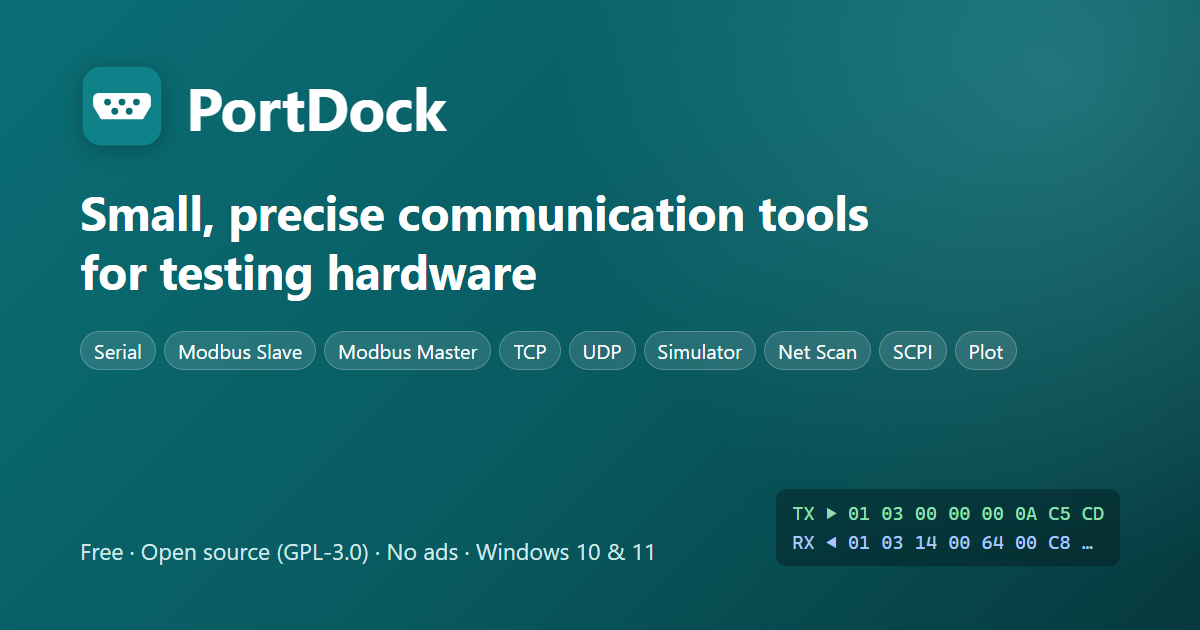
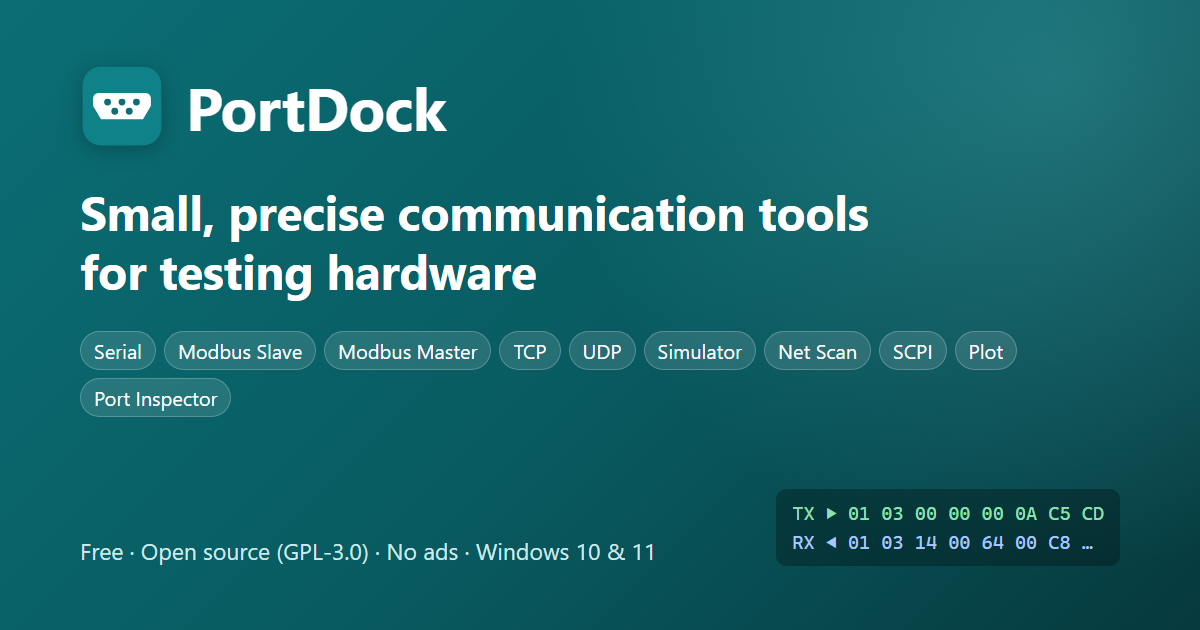
사이트: Port Inspector 도구 페이지·도구 수 문구 10개
- tools.ts 에 Port Inspector 항목(소개·기능·빠른 시작·비슷한 도구·도움말), 도구 id 에 port-inspector
- 이어지는 웹 도구(통신 시간·RS-485·UART 보율), 가이드 5편(USB 시리얼 지연·RS-485 배선·바이어스·종단·Modbus 응답 없음·DB9 널 모뎀)에 도구 연결
- 첫 화면·내려받기 설명과 사이트 소개·llms.txt 에 COM 포트 점검, 9종 → 10종
- 공유 미리보기 그림(og.png·og-en.png)을 og/make.mjs 로 다시 만듦, SEO.md 검색어 줄

Changed region(s): [[0.0617, 0.573, 0.2158, 0.6635]]

diff --git a/site/src/data/tools.ts b/site/src/data/tools.ts
@@ -10,6 +10,7 @@ import { help as netscanHelp } from "../../../apps/netscan/src/help";
 import { help as modbusMasterHelp } from "../../../apps/modbus-master/src/help";
 import { help as scpiHelp } from "../../../apps/scpi/src/help";
 import { help as plotHelp } from "../../../apps/plot/src/help";
+import { help as portInspectorHelp } from "../../../apps/port-inspector/src/help";
 
 export type Lang = "ko" | "en";
 export type L = Record<Lang, string>;
@@ -22,7 +23,7 @@ export const latest = (file: string) => `${RELEASES}/latest/download/${file}`;
 export const RELEASED = false;
 
 export interface Tool {
-  id: "serial" | "modbus-slave" | "tcp" | "udp" | "simulator" | "netscan" | "modbus-master" | "scpi" | "plot";
+  id: "serial" | "modbus-slave" | "tcp" | "udp" | "simulator" | "netscan" | "modbus-master" | "scpi" | "plot" | "port-inspector";
   name: string;
   /** 파일 이름에 쓰는 이름 — PortDock-Serial */
   file: string;
@@ -378,6 +379,46 @@ export const TOOLS: Tool[] = [
       en: "Similar tools include the Arduino IDE Serial Plotter and the open-source SerialPlot. PortDock Plot also takes TCP and UDP input, binary frames, and records CSV while receiving.",
     },
     help: plotHelp,
+  },
+  {
+    id: "port-inspector",
+    name: "PortDock Port Inspector",
+    file: "PortDock-Port-Inspector",
+    tagline: { ko: "COM 포트 드라이버·문제 코드·절전 읽기와 연결 시험", en: "Read-only COM port inspector with a loopback test" },
+    seo: {
+      title: { ko: "PortDock Port Inspector — 무료 COM 포트 점검 (USB 시리얼)", en: "PortDock Port Inspector — Free COM Port Inspector (USB Serial)" },
+      desc: {
+        ko: "USB 시리얼 드라이버·장치 관리자 문제 코드·FTDI 지연·유령 COM 번호를 관리자 권한 없이 읽는 무료 윈도우 도구. 루프백 연결 시험, 설정은 바꾸지 않음.",
+        en: "Free Windows COM port inspector: USB serial driver, Device Manager problem code, FTDI latency, ghost COM numbers. Read-only, no admin rights, loopback test.",
+      },
+    },
+    summary: {
+      ko: "COM 포트 하나를 고르면 장치 관리자·이벤트 뷰어·레지스트리를 따로 뒤져야 보이는 것을 한 화면에 모읍니다: 드라이버, 문제 코드와 뜻, USB 칩, FTDI 지연 타이머 같은 장치 설정, USB 절전, 최근 연결 기록, COM 번호 예약. 관리자 권한 없이 읽기만 하고, TX 와 RX 를 이어 두면 속도마다 왕복 시간을 잽니다.",
+      en: "Pick a COM port and see in one place what you would otherwise dig out of Device Manager, Event Viewer and the registry: the driver, problem code and its meaning, USB chip, device settings such as the FTDI latency timer, USB power saving, recent plug history and COM number reservations. It only reads, without admin rights, and with TX tied to RX it measures the round trip at each baud rate.",
+    },
+    who: [
+      { ko: "USB-시리얼 변환기가 안 잡히거나 가끔 끊기는 현장 엔지니어", en: "Field engineers whose USB-serial adapter is not detected or drops now and then" },
+      { ko: "Modbus RTU 응답이 늦게 보이는 까닭을 찾는 분(FTDI 지연 타이머)", en: "Anyone looking for why Modbus RTU replies seem late (FTDI latency timer)" },
+      { ko: "문의·이슈에 PC 쪽 포트 정보를 붙여야 하는 분", en: "Anyone who needs to attach PC-side port details to a support request or issue" },
+    ],
+    features: [
+      { title: { ko: "장치·드라이버·문제 코드", en: "Device, driver, problem code" }, body: { ko: "이름·COM 번호·위치·인스턴스 ID·제조사, 드라이버 제공자·버전·날짜·INF·서비스, 상태와 장치 관리자 문제 코드의 뜻·해 볼 것, 마지막 연결·분리 시각.", en: "Name, COM number, location, instance ID and manufacturer; driver provider, version, date, INF and service; status and the Device Manager problem code with its meaning and what to try; last plug-in and removal." } },
+      { title: { ko: "USB 칩·장치 설정", en: "USB chip and device settings" }, body: { ko: "VID/PID 표로 본 칩 이름(FTDI·Prolific PL2303·WCH CH34x·Silicon Labs CP210x 등), Windows 포트 기본값, 드라이버가 둔 Device Parameters — FTDI 지연 타이머(LatencyTimer)는 뜻을 풀어 줍니다.", en: "Chip name from a VID/PID table (FTDI, Prolific PL2303, WCH CH34x, Silicon Labs CP210x …), the Windows port default and the driver's Device Parameters, with the FTDI latency timer (LatencyTimer) explained." } },
+      { title: { ko: "절전·연결 기록", en: "Power saving and history" }, body: { ko: "전원 옵션의 USB 선택적 절전, 이 장치와 위 USB 장치의 «컴퓨터가 이 장치를 끌 수 있음», 이벤트 로그의 연결·드라이버 기록(7·30·90일).", en: "USB selective suspend from the power options, «Allow the computer to turn off this device» for the device and the USB devices above it, and plug and driver events from the event logs (7, 30 or 90 days)." } },
+      { title: { ko: "COM 번호 예약", en: "COM number reservations" }, body: { ko: "Windows 가 예약해 둔 번호(ComDB), 지금 없는 장치가 쥔 번호, 주인 없는 번호, 여러 장치가 쥔 번호 — 새 변환기가 COM15 처럼 높은 번호를 받는 까닭을 봅니다.", en: "Numbers Windows keeps reserved (ComDB), numbers held by devices not connected now, orphan numbers and numbers held by more than one device — why a new adapter ends up on COM15." } },
+      { title: { ko: "연결 시험", en: "Connection test" }, body: { ko: "TX–RX 루프백으로 속도마다 같음·잃음·바뀐 바이트와 1바이트 왕복 ms(중앙값·최대), 드라이버 오류 표시(ClearCommError). 2선 RS-485 변환기의 에코 여부도 알려 줍니다.", en: "A TX–RX loopback per baud rate: bytes same, lost and changed, 1-byte round trip in ms (median and max) and driver error flags (ClearCommError). It also tells whether a 2-wire RS-485 adapter echoes." } },
+      { title: { ko: "읽기만, 결과는 그대로", en: "Read-only, plain results" }, body: { ko: "설정·드라이버를 바꾸지 않습니다(고치는 법은 도움말). 카드마다 «문제 없음(읽은 범위)·볼 것·문제 있음·읽지 못함», A/B 뒤바뀜·종단·바이어스·접지처럼 PC 가 볼 수 없는 것은 늘 따로 적고, 텍스트·JSON 으로 내보낼 때 사용자 폴더 경로는 가립니다.", en: "It never changes settings or drivers (the help explains manual fixes). Each card is marked «No issue found (in what was read) / Worth a look / Problem / Could not read»; what the PC cannot see — A/B swap, termination, bias, ground — is always listed; text and JSON exports mask user folder paths." } },
+    ],
+    steps: [
+      { ko: "왼쪽 «COM 포트» 목록에서 포트를 누르기", en: "Click a port in the «COM ports» list on the left" },
+      { ko: "카드의 결과와 까닭을 보고, 필요하면 도움말의 고치는 법대로 Windows 에서 직접 바꾸기", en: "Read each card's result and reason; if needed, change things yourself in Windows as the help explains" },
+      { ko: "TX·RX 를 이어 «연결 시험», 문의에는 «텍스트 복사» 로 결과 붙이기", en: "Tie TX to RX for the «Connection test»; use «Copy text» to attach the result to a question" },
+    ],
+    similar: {
+      ko: "비슷한 일을 하는 도구로 Windows 장치 관리자, NirSoft 의 USBDeview(무료), Uwe Sieber 의 USB Device Tree Viewer(무료), FTDI 칩용 FT_PROG(무료) 등이 있습니다. PortDock Port Inspector 는 COM 포트 하나를 기준으로 드라이버·문제 코드·절전·연결 기록·COM 번호 예약을 한 화면에 모으고, 루프백 연결 시험을 함께 합니다.",
+      en: "Similar tools include Windows Device Manager, NirSoft USBDeview (freeware), Uwe Sieber's USB Device Tree Viewer (freeware) and FTDI's FT_PROG for FTDI chips (free). PortDock Port Inspector gathers the driver, problem code, power saving, plug history and COM number reservations for one COM port in one place, and adds a loopback connection test.",
+    },
+    help: portInspectorHelp,
   },
 ];
 

diff --git a/site/src/lib/i18n.ts b/site/src/lib/i18n.ts
@@ -10,7 +10,7 @@ export const otherLang = (lang: Lang): Lang => (lang === "ko" ? "en" : "ko");
 
 export const UI = {
   ko: {
-    siteDesc: "현장 하드웨어 시험용 무료 통신 도구 — 시리얼(COM)·Modbus·TCP·UDP·장비 시뮬레이터·네트워크 장비 찾기·SCPI 계측기·실시간 그래프. 오픈소스, 프로그램에 광고·끼워팔기 없음.",
+    siteDesc: "현장 하드웨어 시험용 무료 통신 도구 — 시리얼(COM)·Modbus·TCP·UDP·장비 시뮬레이터·네트워크 장비 찾기·SCPI 계측기·실시간 그래프·COM 포트 점검. 오픈소스, 프로그램에 광고·끼워팔기 없음.",
     tools: "도구",
     webTools: "웹 도구",
     guides: "가이드",
@@ -28,7 +28,7 @@ export const UI = {
     issues: "버그 신고",
     langName: "English",
     heroTitle: "현장 장비 시험을 위한\n작고 정확한 통신 도구",
-    heroSub: "시리얼(COM), Modbus, TCP, UDP, 장비 시뮬레이터, 네트워크 장비 찾기, SCPI 계측기, 실시간 그래프를 목적별 작은 프로그램으로. 무료·오픈소스(GPL-3.0), 윈도우 10·11.",
+    heroSub: "시리얼(COM), Modbus, TCP, UDP, 장비 시뮬레이터, 네트워크 장비 찾기, SCPI 계측기, 실시간 그래프, COM 포트 점검을 목적별 작은 프로그램으로. 무료·오픈소스(GPL-3.0), 윈도우 10·11.",
     trust: ["프로그램에 광고 없음", "끼워팔기 없음", "설치판·휴대판", "소스 공개"],
     allTools: "PortDock 도구",
     more: "자세히",
@@ -68,7 +68,7 @@ export const UI = {
     footerLine: "PortDock — 현장 하드웨어 시험용 통신 도구. GPL-3.0.",
   },
   en: {
-    siteDesc: "Free communication tools for hardware testing — serial (COM), Modbus, TCP, UDP, a device simulator, a network device finder, an SCPI instrument terminal and a live plotter. Open source; no ads or bundles in the apps.",
+    siteDesc: "Free communication tools for hardware testing — serial (COM), Modbus, TCP, UDP, a device simulator, a network device finder, an SCPI instrument terminal, a live plotter and a COM port inspector. Open source; no ads or bundles in the apps.",
     tools: "Tools",
     webTools: "Web tools",
     guides: "Guides",
@@ -85,7 +85,7 @@ export const UI = {
     issues: "Report a bug",
     langName: "한국어",
     heroTitle: "Small, precise communication tools\nfor testing hardware",
-    heroSub: "Serial (COM), Modbus, TCP, UDP, a device simulator, a network device finder, an SCPI instrument terminal and a live plotter — one small program per job. Free and open source (GPL-3.0), Windows 10 and 11.",
+    heroSub: "Serial (COM), Modbus, TCP, UDP, a device simulator, a network device finder, an SCPI instrument terminal, a live plotter and a COM port inspector — one small program per job. Free and open source (GPL-3.0), Windows 10 and 11.",
     trust: ["No ads in the apps", "No bundles", "Installer or portable", "Open source"],
     allTools: "PortDock tools",
     more: "Details",

diff --git a/site/src/data/guides.ts b/site/src/data/guides.ts
@@ -162,7 +162,7 @@ export const GUIDES: Guide[] = [
   {
     slug: "usb-serial-latency",
     date: "2026-10-17",
-    tools: ["modbus-slave", "serial", "modbus-master"],
+    tools: ["port-inspector", "serial", "modbus-master"],
     related: ["modbus-no-response", "modbus-rtu-frame", "rs485-wiring", "modbus-rtu-timeout-polling"],
     webTools: ["tools/serial-timing/", "tools/uart-baud/"],
     seoTitle: { ko: "USB-시리얼 변환기 지연 — 프레임이 쪼개지는 이유 — PortDock", en: "USB-Serial Adapter Latency: Split Frames, Late Replies — PortDock" },
@@ -195,7 +195,7 @@ export const GUIDES: Guide[] = [
   {
     slug: "rs485-wiring",
     date: "2026-10-17",
-    tools: ["serial", "modbus-master"],
+    tools: ["serial", "modbus-master", "port-inspector"],
     related: ["rs232-rs422-rs485", "rs485-bias-termination", "modbus-no-response", "usb-serial-latency", "modbus-rtu-frame"],
     webTools: ["tools/rs485/"],
     seoTitle: { ko: "RS485 통신이 안 될 때 — 배선 점검 다섯 가지 — PortDock", en: "RS-485 Wiring Checks: No Reply or Garbled Data — PortDock" },
@@ -274,7 +274,7 @@ export const GUIDES: Guide[] = [
   {
     slug: "modbus-no-response",
     date: "2026-10-19",
-    tools: ["modbus-master", "modbus-slave", "netscan"],
+    tools: ["modbus-master", "port-inspector", "netscan"],
     related: ["modbus-tcp-connection", "rs485-wiring", "modbus-address-notation", "usb-serial-latency", "modbus-rtu-timeout-polling", "modbus-exception-codes"],
     webTools: ["tools/modbus/", "tools/checksum/", "tools/serial-timing/"],
     devices: true,
@@ -1814,7 +1814,7 @@ export const GUIDES: Guide[] = [
   {
     slug: "rs485-bias-termination",
     date: "2026-10-23",
-    tools: ["serial", "modbus-master"],
+    tools: ["serial", "modbus-master", "port-inspector"],
     related: ["rs485-wiring", "rs232-rs422-rs485", "modbus-no-response", "modbus-rtu-timeout-polling"],
     webTools: ["tools/rs485/", "tools/serial-timing/"],
     devices: true,
@@ -2538,7 +2538,7 @@ export const GUIDES: Guide[] = [
     //   PortDock Serial 의 신호선 표시·흐름 제어는 apps/serial/src/help.ts. 전압·거리는 rs232-rs422-rs485 글(TI SLLA067C).
     slug: "rs232-db9-null-modem",
     date: "2026-10-23",
-    tools: ["serial"],
+    tools: ["serial", "port-inspector"],
     related: ["rs232-rs422-rs485", "usb-serial-latency", "rs485-wiring"],
     webTools: ["tools/ascii/", "tools/uart-baud/", "tools/web-serial/"],
     title: { ko: "RS-232 DB9 핀 배치와 크로스(널 모뎀) 케이블 결선", en: "RS-232 DB9 pinout and null-modem (crossover) cable wiring" },

diff --git a/site/src/pages/llms.txt.ts b/site/src/pages/llms.txt.ts
@@ -12,7 +12,7 @@ export const GET: APIRoute = ({ site }) => {
   const lines = [
     "# PortDock",
     "",
-    "> Free, open-source (GPL-3.0) Windows tools for field hardware testing: serial (COM), Modbus RTU/TCP master and slave, TCP, UDP, device simulator, network scan, SCPI instruments and live plotting. This site also publishes an open dataset of Modbus register maps for Korean industrial devices (CC BY 4.0).",
+    "> Free, open-source (GPL-3.0) Windows tools for field hardware testing: serial (COM), Modbus RTU/TCP master and slave, TCP, UDP, device simulator, network scan, SCPI instruments, live plotting and a read-only COM port inspector. This site also publishes an open dataset of Modbus register maps for Korean industrial devices (CC BY 4.0).",
     "",
     "## Device register maps (dataset)",
     "",

diff --git a/site/SEO.md b/site/SEO.md
@@ -23,6 +23,7 @@
 | IP 스캐너, PLC IP 찾기, 산업용 네트워크 스캔 | `/netscan/` | «무료 산업 네트워크 IP 스캐너 (장비 찾기)», «Modbus 502·MC·XGT·S7» |
 | SCPI 프로그램, 계측기 통신 프로그램, VISA 없이 | `/scpi/` | «무료 SCPI 계측기 터미널 (VISA 없이)» |
 | 시리얼 플로터, 시리얼 그래프, 아두이노 그래프 | `/plot/` | «무료 시리얼 플로터 (실시간 그래프·CSV)», «Arduino 식 이름:값» |
+| COM 포트 점검, USB 시리얼 드라이버 확인, 유령 COM 포트, FTDI 지연 | `/port-inspector/` | «무료 COM 포트 점검 (USB 시리얼)», «장치 관리자 문제 코드·FTDI 지연·유령 COM 번호» |
 | <제조사> <모델> 모드버스 주소 (예: LS S100 모드버스 주소, 오토닉스 TK 모드버스) | `/devices/<제조사>/<모델>/` | «<제조사> <모델> Modbus 주소·레지스터 맵», 설명에 «Modbus(모드버스) 통신 주소» |
 | 인버터 모드버스 주소, 온도 조절기 모드버스 | `/devices/` | «국산 장비 Modbus 주소표 — 인버터·온도 조절기·전력 미터» |
 | 모드버스 응답 없음, modbus 타임아웃 | `/guides/modbus-no-response/` | «Modbus 응답 없음·타임아웃 점검 순서 (RTU·TCP)» |
@@ -94,6 +95,7 @@
 | industrial ip scanner, find plc ip | `/en/netscan/` | «Free IP Scanner for Industrial Networks» |
 | scpi terminal, scpi without visa | `/en/scpi/` | «Free SCPI Terminal (LAN Socket, RS-232, No VISA)» |
 | serial plotter, arduino serial plotter alternative | `/en/plot/` | «Free Serial Plotter for Live Graphs and CSV» |
+| COM port inspector, usb serial driver check, ghost com ports, ftdi latency | `/en/port-inspector/` | «Free COM Port Inspector (USB Serial)», «Device Manager problem code, FTDI latency, ghost COM numbers» |
 | <maker> <model> modbus register map | `/en/devices/<maker>/<model>/` | «<maker> <model> Modbus Register Map & Addresses» |
 | modbus timeout, modbus no response | `/en/guides/modbus-no-response/` | «Modbus Timeout or No Response: Checklist (RTU/TCP)» |
 | modbus 40001 address, modbus 0 based vs 1 based | `/en/guides/modbus-address-notation/` | «Modbus Address 40001 vs 0-Based: Reading the Manual» |
@@ -213,9 +215,9 @@
 - 도구 → 관련 가이드(가이드의 `tools` 에 든 것)·비슷한 도구·웹 도구·(Modbus 도구) 내장 장비 전체(수는 `data/devices` 에서 자동).
 - 사용법 → 목차 아래 관련 가이드.
 - 장비 → 같은 종류 장비·Modbus 가이드·Modbus Master/Slave·내려받기.
-- 웹 도구 → 그 도구를 쓰는 가이드·다른 웹 도구·내려받기. 도구 페이지 «이어지는 웹 도구» 는 `ToolPage.astro` 의 `WEB_FOR`(시리얼 → 통신 시간·RS-485·ASCII·UART 보율, Modbus Master → 통신 시간·서브넷·모터 회전수·정수 변환, TCP·UDP·Net Scan → 서브넷, Simulator → ASCII, Plot → NTC·엔코더·ADC).
+- 웹 도구 → 그 도구를 쓰는 가이드·다른 웹 도구·내려받기. 도구 페이지 «이어지는 웹 도구» 는 `ToolPage.astro` 의 `WEB_FOR`(시리얼 → 통신 시간·RS-485·ASCII·UART 보율, Modbus Master → 통신 시간·서브넷·모터 회전수·정수 변환, TCP·UDP·Net Scan → 서브넷, Simulator → ASCII, Plot → NTC·엔코더·ADC, Port Inspector → 통신 시간·RS-485·UART 보율).
 - 가이드의 `deviceKinds` ↔ 장비 종류: 가이드 «이어 읽기» 에 그 종류 장비 맵, 장비 페이지에 «<종류> 가이드·계산기»(인버터 → 주파수·회전수·모터 전류 글과 웹 도구, 전력 미터 → 모터 전류·역률 콘덴서, 패널 미터 → 압력 단위·아날로그 입력 스케일링). 이 글들은 모든 장비의 «Modbus 가이드» 목록에서는 뺀다.
-- 첫 화면 → 도구 9개·가이드 전부·장비 목록.
+- 첫 화면 → 도구 10개·가이드 전부·장비 목록.
 
 ## 등록 (근거는 비공개 검토 문서)
 - Google Search Console: URL 접두어 속성 → 메타 태그 값을 빌드 변수 `PUBLIC_GOOGLE_SITE_VERIFICATION` 에 → `<SITE_URL>/sitemap-index.xml` 제출.
